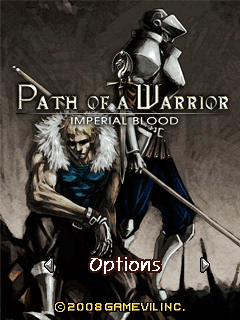
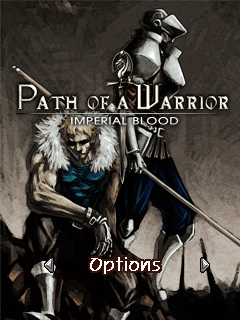
Без Gamevil у тому, що бачить гравець (PORT-EXTRA NO_GAMEVIL)
«Gamevil Live» показується як «Live» (тексти й карусель Game Menu), без рядка
копірайту під титулом, без лого-заставки мультиплеєра, без сайту й пошти Gamevil
у Help, About і довідці мультиплеєра. POW_NO_GAMEVIL=0 — як в оригіналі.

Claude-Session: https://claude.ai/code/session_01Pra1er1kKanejmpdQiPXsm

Changed region(s): [[0.2042, 0.9375, 0.7583, 1.0]]

diff --git a/pyport/pow_mp/consts.py b/pyport/pow_mp/consts.py
@@ -7,6 +7,9 @@ tools/j2py_mp.py; edited by hand since.
 
 
 
+from pow.game import rebrand
+
+
 class Consts:
     speed_frame_ms = None  # l.java:5 int[]
     anim_first_frame = None  # l.java:6 int[]
@@ -83,10 +86,13 @@ def _static_init():
     Consts.help_menu = ["Duel", "Duel mode allows", "you to battle", "against enemies in", "a '1-on-1' or", "'2-on-2' battle.", "Duel", "Your victorious", "battles will earn", "you gold and", "fame.", "Duel", "The gold and", "fame that you", "earn in", "POW Multiplayer", "can be used in", "POW Single Player.", "Mission", "Mission mode", "allows you to", "team up with other", "fighters and endure", "in various battles.", "Mission", "You will earn", "experience, gold,", "fame, and items", "based on your", "mission grade.", "Options", "The Options menu", "allows you to", "adjust your game", "speed, volume and", "the ability to", "accept/deny battle", "invites from other", "players.", "Character", "On the character", "menu, you can view", "your character's", "stats and abilities", "and adjust your", "skill settings.", "Ranking", "On the Ranking", "menu, you can view", "Duel/Mission/Fame", "ratings."]
     Consts.help_menu_lines = [6, 5, 7, 6, 6, 9, 7, 5]
     Consts.help_duel = ["1-on-1 Duel", "1-on-1 Duel", "mode can played", "with an CPU", "or with a friend.", "1-on-1 Duel", "Competition in a", "1-on-1 Duel is", "composed of", "two parts:", "Timing and Action.", "1-on-1 Duel", "Proper timing", "when performing", "your attacks will", "increase your", "percentage hit", "ratio.", "1-on-1 Duel", "Your action", "during battle is", "chosen by", "selecting the", "directional keypad.", "1-on-1 Duel", "You have 4", "options to choose", "from when selecting", "your attack.", "1-on-1 Duel", "The fighter with", "the higher MP level", "will be the first", "to exceute an", "action.", "1-on-1 Duel", "When its your", "turn to execute", "and action, you can", "either 'Attack',", "'Defend', 'Evade',", "or use a Special", "Skill.", "1-on-1 Duel", "The ability to", "use your Special", "Skill will depend", "on how much", "MP level you", "have.", "1-on-1 Duel", "Some Special", "Skills will require", "more MP usage", "than other", "Special Skills.", "1-on-1 Duel", "To create and", "effective action", "on your opponent,", "you must hit the", "target area of", "the moving bar.", "1-on-1 Duel", "A missed hit", "on the target", "area will result", "in a lower", "percentage hit", "ratio.", "1-on-1 Duel", "You will earn", "experience, gold", "and fame", "depending on", "the skill level", "of your opponent.", "1-on-1 Duel", "Please visit", "www.gamevil.com", "for more", "information about", "the game.", "2-on-2 Duel", "2-on-2 Duel", "can be played", "with multiple CPU's", "or with multiple", "friends.", "2-on-2 Duel", "You will earn", "more experience,", "fame and gold in", "when achieving", "victories on", "'2-on-2 Duel' than", "in '1-on-1 Duel'.", "Duel", "When playing", "1-on-1 or", "2-on-2 Duel,", "the friends whom", "you play with", "must be within a", "20 level range", "from your level.", "Challenge 1:1", "Challenge 1:1 is", "a mode where ", "you can fight ", "with a friend.", "Challenge 2:2", "Challenge 2:2 is", "a mode where ", "you can fight ", "with multiple", "friends."]
+    Consts.help_duel = rebrand.mp_lines(Consts.help_duel)  # PORT-EXTRA: no Gamevil (pow/game/rebrand.py)
     Consts.help_duel_lines = [5, 6, 7, 6, 5, 6, 8, 7, 6, 7, 7, 7, 6, 6, 8, 9, 5, 6]
     Consts.help_mission = ["Solo Mission", "In Solo Mission", "mode, you will", "automatically be", "paired with an", "CPU and endure", "in various battles.", "Solo Mission", "The number of", "stages and enemies'", "abilities in Solo", "Mission mode will", "vary depending on", "POW Single Player", "mission progress.", "Solo Mission", "Once you", "complete all the", "stages in your", "mission, you will", "earn fame,", "Solo Mission", "experience, gold,", "and items based", "on your mission", "grade.", "Invite An Ally", "In Invite An Ally", "mode you choose", "a friend to be an", "ally when enduring", "in various battles.", "Invite An Ally", "The players", "whom you invite", "to play in battles", "must also be", "logged onto", "POW multiplayer.", "Invite An Ally", "You can also", "manually choose", "the user with", "whom you want", "to play.", "Invite An Ally", "Please visit", "www.gamevil.com", "for more", "information about", "the mission."]
+    Consts.help_mission = rebrand.mp_lines(Consts.help_mission)  # PORT-EXTRA: no Gamevil (pow/game/rebrand.py)
     Consts.help_mission_lines = [7, 8, 6, 5, 6, 7, 6, 6]
     Consts.help_about = ["About", "Path of a Warrior", "Multiplayer", "", "www.gamevil.com", "contact@gamevil.com"]
+    Consts.help_about = rebrand.mp_lines(Consts.help_about)  # PORT-EXTRA: no Gamevil (pow/game/rebrand.py)
     Consts.help_about_lines = [6]
     Consts.help_network = ["Network", "Network fees may", "apply.", "See your service", "provider for", "details."]
     Consts.help_network_lines = [6]
@@ -103,9 +109,11 @@ def _static_init():
     Consts.softkeys = ["OK", "BACK", "EXIT", "DEL", "SELECT", "LOGIN"]
     Consts.input_prompts = ["Enter your ", "display name.", "(8 characters max)", "Are you sure", "you want to use", "this display name?", "Enter the UserID", "of the recipient", "whom you wish", "to challenge.", "(4-12 characters)", "", "Enter the UserID", "of the recipient", "whom you wish", "to play as an ally.", "(4-12 characters)", ""]
     Consts.login_texts = ["Login", "Please enter the", "UserID you used to", "connect to", "Gamevil Live on the", "Path Of A Warrior", "single version.", "(4-12 characters)", "Enter the Password", "that you used on the", "Path Of A Warrior", "single version.", "(4-12 numbers)"]
+    Consts.login_texts = rebrand.mp_lines(Consts.login_texts)  # PORT-EXTRA: no Gamevil (pow/game/rebrand.py)
     Consts.option_texts = ["Speed", "Invitation", "Volume", "Slow", "Normal", "Fast", "On", "Off", "Deny", "Accept"]
     Consts.texts = ["D-Pad:Select Action", "RSK:Exit Battle", "RESUME", "Grade", "Rank", "You Win!", "You Lose!", "Waiting", "No Battle!", "Main Menu", "", "", "", "", "", "Change your", "victory quote.", "RSK:Cancel", "Notices", "Try again?", "", "", "!", "Change your starting", "battle quote.", "(1-20 Characters)", "Stage ", "Level", "Complete!", "Gold", "Mission Grade", "Mission Failed", "Exp.", "Loot!", "Unavailable", "Would you like", "sound enabled?", "", "Challenge 1:1", "Challenge 2:2", "Yes", "No", "Hp", "Mp", "Atk", "Def", "Level", "Fame", "Duel Grade", "Wins", "Losses", "Mission Grade", "Multiplayer Exp", "Multiplayer Fame", "Gold In Server", "", "Would you", "like to exit?", "Step", "", "Would you like", " to go to the", "main menu?", "Remain time:", "Welcome"]
     Consts.error_lines = ["Unknown error!", "Please register a", "UserID in POW", "single version", "and then go to", "'Gamevil Live >", "Management >", "Save User Data'", "before playing POW", "multiplayer.", "The user is", "not online.", "Unregistered user!", "The invitation", "cannot be replied.", "Please try", "again later.", "This is not", "acceptable.", "The name", "already exists.", "Network failure", "occurred.", "Please try again.", "Too many users", "online. Please", "try again later.", "You cannot", "invite yourself.", "This is the", "first page.", "You’ve entered", "an invalid character.", "You may enter", "up to 8 characters.", "Your time", " has expired.", "You will now", "be directed to", " the main menu.", "The ID you", "have entered", "is not registered", "with Path Of A", "Warrior Single", "Version.", "Please try again.", "This ID is", "registered with a", "different password.", "Please try again.", "Unknown login", "error!", "Another player", "has connected", "using your", "UserID.", "Your invitation", "is denied"]
+    Consts.error_lines = rebrand.mp_lines(Consts.error_lines)  # PORT-EXTRA: no Gamevil (pow/game/rebrand.py)
     Consts.error_line_counts = [1, 9, 2, 1, 4, 2, 2, 3, 3, 2, 2, 2, 2, 5, 7, 4, 2, 4, 2]
     Consts.loading_texts = ["Connecting", "Receiving", "Searching for opponent", "Searching for mission", "Searching for ally", "Sending data", "Changing network"]
 

diff --git a/pyport/pow/game/rebrand.py b/pyport/pow/game/rebrand.py
@@ -1,0 +1,67 @@
+"""PORT-EXTRA (asked by Andrey, 05.11.2026): no Gamevil in what the player sees.
+
+The original shows Gamevil's name, logo, site and "Gamevil Live" in its menus, help and
+texts. With config.NO_GAMEVIL (on by default, POW_NO_GAMEVIL=0 = as in the original):
+- "Gamevil Live" / "GAMEVIL LIVE" reads "Live" / "LIVE" everywhere it is shown (the Game Menu
+  labels txt_b.png / txt_m.png too: pyport/assets/rebrand, read by pow/midp/resources.py);
+- the strings that only advertise Gamevil (site, e-mail, copyright, credits) are replaced;
+- the logos (gamevil.png "(c) 2008 GAMEVIL INC." under the title, gamevillogo.png of the
+  Multiplayer) are not drawn.
+Only what is shown changes: code names, save stores (gamevil_pow_data, ...) and the server
+protocol stay as they are.
+"""
+import config
+
+# (string table, index) -> what is shown instead (.scr files of the single player)
+SCR = {
+    ("help.scr", 10): "Try combining different items at the Blacksmith to find new ones.",
+    ("help.scr", 37): "|Path of a Warrior|Imperial Blood",
+    ("help.scr", 38): "| ",
+    ("text.scr", 62): "Developer Team",
+    ("gamestr.scr", 17): "2Connect to\\the server?",
+}
+
+_WORDS = (("accessing the Gamevil Live", "going to Live"), ("GAMEVIL LIVE", "LIVE"),
+          ("Gamevil Live", "Live"))
+
+
+def enabled():
+    return config.NO_GAMEVIL
+
+
+def text(s):
+    """A shown string without "Gamevil Live" (any table, any screen)."""
+    if not enabled() or not s:
+        return s
+    for old, new in _WORDS:
+        s = s.replace(old, new)
+    return s
+
+
+def scr(path, index, s):
+    """ScrTable.get(): the replacement of one entry of a .scr string table."""
+    if not enabled() or s is None:
+        return s
+    name = path.rsplit("/", 1)[-1]
+    return text(SCR.get((name, index), s))
+
+
+# Multiplayer help pages: the last page of a topic sent the player to www.gamevil.com
+_VISIT = ["Please visit", "www.gamevil.com", "for more", "information about"]
+_VISIT_NEW = ["Have fun and", "good luck in", "your battles!", ""]
+
+
+def mp_lines(lines):
+    """pow_mp/consts.py text arrays: the same number of lines (pages keep their line counts)."""
+    if not enabled():
+        return lines
+    out = list(lines)
+    i = 0
+    while i <= len(out) - len(_VISIT):
+        if out[i:i + len(_VISIT)] == _VISIT:
+            out[i:i + len(_VISIT) + 1] = _VISIT_NEW + [""]
+            i += len(_VISIT) + 1
+        else:
+            i += 1
+    out = ["" if ("gamevil.com" in x.lower()) else text(x) for x in out]
+    return out

diff --git a/pyport/pow_mp/mp_canvas.py b/pyport/pow_mp/mp_canvas.py
@@ -505,7 +505,10 @@ class MpCanvas(DrawMixin, BattleMixin, NetMixin, InputMixin, ScreensMixin, Asset
             MpCanvas.logo_time = system.currentTimeMillis()
             Draw.fill_rect(MpCanvas.buffer_g, 0, 0, MpCanvas.canvas_w, MpCanvas.canvas_h, 0xFFFFFF)
         self.draw_buffer()
-        Draw.draw_image(MpCanvas.screen_g, MpCanvas.logo_image, idiv(MpCanvas.canvas_w, 2), MpCanvas.logo_y, 17)
+        if config.NO_GAMEVIL:  # PORT-EXTRA: no Gamevil logo screen (rebrand.py)
+            MpCanvas.logo_time = 0
+        else:
+            Draw.draw_image(MpCanvas.screen_g, MpCanvas.logo_image, idiv(MpCanvas.canvas_w, 2), MpCanvas.logo_y, 17)
         if MpCanvas.sound_from_sp is not None:
             # PORT-EXTRA: started from the single player's Main Menu (mp_main.play): it already
             # showed the logo and asked about the sound, so its answer goes straight on
@@ -1134,9 +1137,10 @@ class MpCanvas(DrawMixin, BattleMixin, NetMixin, InputMixin, ScreensMixin, Asset
                 Draw.draw_image(MpCanvas.buffer_g, MpCanvas.title_image, (MpCanvas.center_x - idiv(MpCanvas.title_image.getWidth(), 2)), (top_y + (80 * i_title)), 0)
                 MpCanvas.title_image = None
                 i_title = i_title + 1
-            if MpCanvas.gamevil_image is None:
-                MpCanvas.gamevil_image = self.load_image("/gamevil.png")
-            Draw.draw_image(MpCanvas.buffer_g, MpCanvas.gamevil_image, idiv(MpCanvas.canvas_w, 2), (MpCanvas.canvas_h - 1), 33)
+            if not config.NO_GAMEVIL:  # PORT-EXTRA: no "(c) 2008 GAMEVIL INC." line (rebrand.py)
+                if MpCanvas.gamevil_image is None:
+                    MpCanvas.gamevil_image = self.load_image("/gamevil.png")
+                Draw.draw_image(MpCanvas.buffer_g, MpCanvas.gamevil_image, idiv(MpCanvas.canvas_w, 2), (MpCanvas.canvas_h - 1), 33)
             if MpCanvas.press_image is None:
                 MpCanvas.press_image = self.load_image("/press.png")
         self.draw_buffer()

diff --git a/pyport/tests/test_rebrand.py b/pyport/tests/test_rebrand.py
@@ -1,0 +1,33 @@
+"""PORT-EXTRA rebrand.py: no Gamevil in what the player sees (config.NO_GAMEVIL)."""
+import config
+from pow.game import rebrand
+from pow.game.scr_table import ScrTable
+
+
+def _all(path):
+    t = ScrTable(path)
+    n = t.data[0] & 0xFF | (t.data[1] & 0xFF) << 8
+    return [t.get(i) for i in range(n)]
+
+
+def test_no_gamevil_in_shown_tables(monkeypatch):
+    monkeypatch.setattr(config, "NO_GAMEVIL", True)
+    for path in ("/gamestr.scr", "/help.scr", "/uimenu.scr"):
+        for s in _all(path):
+            assert s is None or "gamevil" not in s.lower(), (path, s)
+    assert ScrTable("/gamestr.scr").get(4) == "LIVE"
+    assert ScrTable("/text.scr").get(62) == "Developer Team"
+    assert ScrTable("/imgui.scr").get(36) == "gamevil"      # a file name, not shown
+
+
+def test_original_when_off(monkeypatch):
+    monkeypatch.setattr(config, "NO_GAMEVIL", False)
+    assert ScrTable("/gamestr.scr").get(4) == "GAMEVIL LIVE"
+
+
+def test_mp_pages_keep_their_length(monkeypatch):
+    monkeypatch.setattr(config, "NO_GAMEVIL", True)
+    lines = ["T", "Please visit", "www.gamevil.com", "for more", "information about", "the game.", "Next"]
+    out = rebrand.mp_lines(lines)
+    assert len(out) == len(lines) and out[-1] == "Next"
+    assert not any("gamevil" in x.lower() for x in out)

diff --git a/pyport/pow/game/canvas_draw.py b/pyport/pow/game/canvas_draw.py
@@ -58,9 +58,10 @@ class DrawMixin:
         if GameCanvas.images[30] is None:
             return
         GameCanvas.draw_region(0, 0, GameCanvas.canvas_size.x, GameCanvas.canvas_size.y, GameCanvas.images[30], 0, 0)
-        if GameCanvas.title_press is None:
-            GameCanvas.title_press = self.load_image(GameCanvas.scr_ui.get(36))
-        GameCanvas.draw_region(GameCanvas.view_cx - 66 + GameCanvas.view_x, GameCanvas.canvas_size.y - 20, 132, 14, GameCanvas.title_press, 0, 0)
+        if not config.NO_GAMEVIL:  # PORT-EXTRA: no "(c) 2008 GAMEVIL INC." line (rebrand.py)
+            if GameCanvas.title_press is None:
+                GameCanvas.title_press = self.load_image(GameCanvas.scr_ui.get(36))
+            GameCanvas.draw_region(GameCanvas.view_cx - 66 + GameCanvas.view_x, GameCanvas.canvas_size.y - 20, 132, 14, GameCanvas.title_press, 0, 0)
         if GameCanvas.title_logo is None:
             GameCanvas.title_logo = self.load_image(GameCanvas.scr_ui.get(42))
         if GameCanvas.frame % 6 < 3 and GameCanvas.state == 0:

diff --git a/pyport/pow/game/live_screen.py b/pyport/pow/game/live_screen.py
@@ -3,6 +3,7 @@
 as.a = m(); ag.L() calls as.aK() -> m.a() every frame while bV == 11. as.ho picks the screen.
 """
 import config
+from pow.game import rebrand
 from pow.game.game_canvas import GameCanvas
 from pow.game.gfx import Gfx
 from pow.game.live import B5, Live
@@ -155,7 +156,7 @@ class LiveScreen(Live):
                 Live.blink = False
                 Gfx.set_font(GameCanvas.font_white)
                 Gfx.draw_string("In order to access", GameCanvas.screen_w // 2, i - 30, 1)
-                Gfx.draw_string("Gamevil Live", GameCanvas.screen_w // 2, i - 10, 1)
+                Gfx.draw_string(rebrand.text("Gamevil Live"), GameCanvas.screen_w // 2, i - 10, 1)
                 Gfx.draw_string("you must register first.", GameCanvas.screen_w // 2, i + 10, 1)
                 Gfx.draw_string("Please enter a UserID.", GameCanvas.screen_w // 2, i + 30, 1)
                 Gfx.draw_string("(4-12 characters)", GameCanvas.screen_w // 2, i + 50, 1)

diff --git a/pyport/pow/game/scr_table.py b/pyport/pow/game/scr_table.py
@@ -1,4 +1,5 @@
 """al.java - string table (.scr) reader. Literal port."""
+from pow.game import rebrand
 from pow.game.res_reader import ResReader
 
 
@@ -11,6 +12,7 @@ def _read_utf(buf: bytes) -> str:
 class ScrTable:
     def __init__(self, path):  # al.java:7-9
         self.data = ResReader.read(path)
+        self.path = path  # PORT-EXTRA: rebrand.scr() keys the replacements by the file name
 
     def get(self, index):  # al.java:11-29
         i = 2 + index * 2
@@ -28,7 +30,7 @@ class ScrTable:
             str_ = _read_utf(utf)
         except Exception:
             pass
-        return str_
+        return rebrand.scr(self.path, index, str_)  # PORT-EXTRA: no Gamevil (rebrand.py)
 
     def free(self):  # al.java:31-33
         self.data = None

diff --git a/pyport/pow/midp/resources.py b/pyport/pow/midp/resources.py
@@ -8,9 +8,16 @@ def root() -> pathlib.Path:
     return pathlib.Path(config.RES_ROOT)
 
 
+# PORT-EXTRA (pow/game/rebrand.py): images with "Gamevil Live" redrawn as "Live"
+REBRAND_DIR = pathlib.Path(__file__).resolve().parents[2] / "assets" / "rebrand"
+REBRAND_IMAGES = ("txt_b.png", "txt_m.png")
+
+
 def read(path: str):
     """'/name.ext' -> bytes, or None when missing (as j.a() returns null)."""
     p = root() / path.lstrip("/")
+    if config.NO_GAMEVIL and path.lstrip("/") in REBRAND_IMAGES:
+        p = REBRAND_DIR / path.lstrip("/")
     try:
         with open(p, "rb") as fh:
             return fh.read()

diff --git a/pyport/config.py b/pyport/config.py
@@ -200,3 +200,7 @@ REG_KEYBOARD = os.environ.get("POW_REG_KEYBOARD", "1") == "1"
 # "Q:CONFIRM" / "ESC:BACK" after the keyboard, "SEL:CONFIRM" / "B:BACK" after the gamepad
 # (pow/midp/canvas.py input_source). POW_KEY_HINTS=0 = the plain captions; tools/shot.py uses 0.
 KEY_HINTS = os.environ.get("POW_KEY_HINTS", "1") == "1"
+
+# PORT-EXTRA (asked by Andrey): no Gamevil name, logo, site or "Gamevil Live" in what the player
+# sees (pow/game/rebrand.py). 0 = as in the original.
+NO_GAMEVIL = os.environ.get("POW_NO_GAMEVIL", "1") == "1"

diff --git a/pyport/tools/shot.py b/pyport/tools/shot.py
@@ -67,6 +67,7 @@ os.environ.setdefault("POW_SERVER_ONLY_SAVE", "0")   # the save on the device (n
 os.environ.setdefault("POW_SKILL_CARD", "0")  # the original description strip of Skills
 os.environ.setdefault("POW_REG_KEYBOARD", "0")   # the original registration grid (env line to turn on)
 os.environ.setdefault("POW_KEY_HINTS", "0")   # plain soft-key captions (env line to turn on)
+os.environ.setdefault("POW_NO_GAMEVIL", "0")   # the original texts and logos (env line to hide Gamevil)
 
 
 def parse(path):

diff --git a/pyport/tools/mp_shot.py b/pyport/tools/mp_shot.py
@@ -33,6 +33,7 @@ os.environ.setdefault("POW_SEED", "1")
 os.environ["POW_CHEAT"] = "0"   # a POW_CHEAT=1 left in the shell (500000 gold, all skills) breaks every baseline
 os.environ.setdefault("POW_AUTO_BUTTON", "0")   # the AUTO button only while on (original screenshots)
 os.environ.setdefault("POW_MP_SERVER", "local")
+os.environ.setdefault("POW_NO_GAMEVIL", "0")   # the original texts and logos (env line to hide Gamevil)
 
 
 def parse(path):

diff --git a/pyport/README.md b/pyport/README.md
@@ -113,6 +113,14 @@ R3 геймпада вмикає й вимикає режим. Герой сам
 (Rise Potion / Azure Potion / Falls Medicine / Forest Medicine). Оскільки набори рівноцінні, старі
 сейви (зроблені, коли всі мали 30/10/5/4) теж отримують рівно свої очки. Сценарій `respec.keys`.
 
+**Без Gamevil** (PORT-EXTRA `config.NO_GAMEVIL`, `pow/game/rebrand.py`, за замовчуванням увімкнено):
+гравець більше не бачить ні назви, ні лого Gamevil. «Gamevil Live» скрізь читається як «Live» (у
+каруселі Game Menu теж: перемальовані `txt_b.png` / `txt_m.png` лежать у `pyport/assets/rebrand`),
+рядок «© 2008 GAMEVIL INC.» під титулом і заставка-лого мультиплеєра не показуються, сайт, пошта й
+копірайт Gamevil у Help, About і довідці мультиплеєра замінені. Назви в коді, сховища сейвів і
+протокол сервера поки старі. `POW_NO_GAMEVIL=0` — як в оригіналі; `tools/shot.py` і
+`tools/mp_shot.py` ставлять 0 (еталонні скріншоти лишаються оригінальними).
+
 **Повноекранний режим** (PORT-EXTRA `pow/midp/display.py`): F11 або Alt+Enter, або Options → Screen
 (Window / Full; і в меню, і в паузі). Картинка 240×320 збільшується в найбільшу цілу кількість разів, що
 влазить у монітор (1080p → ×3), по центру, з чорними смугами; клік мишею перераховується. Вибір
